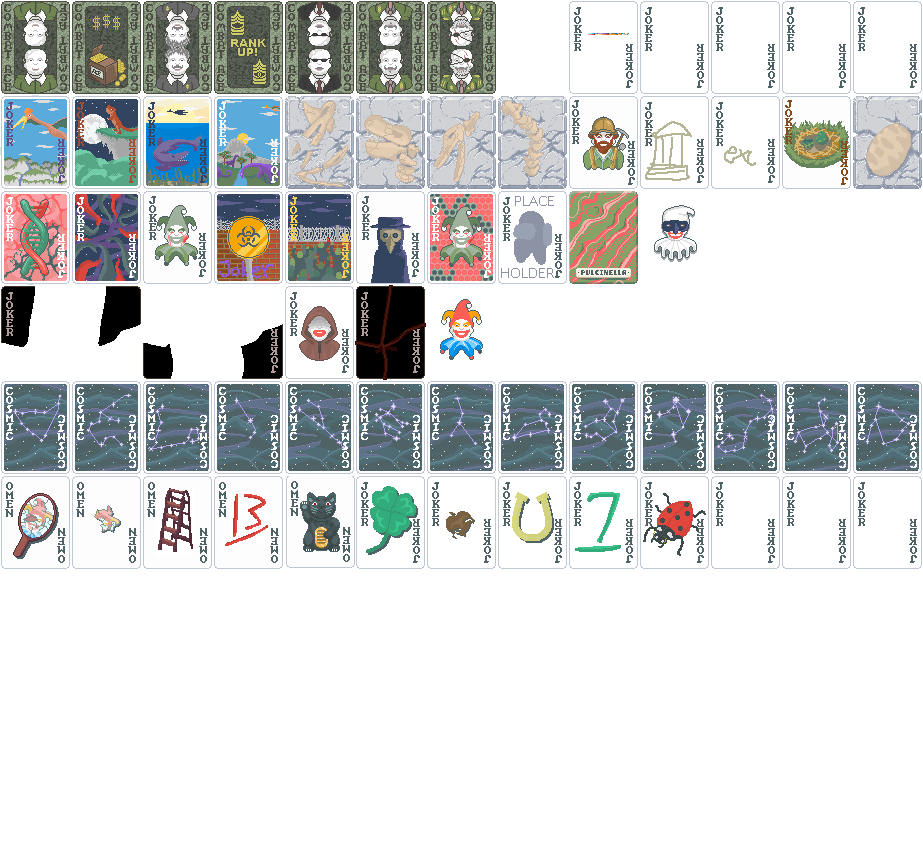
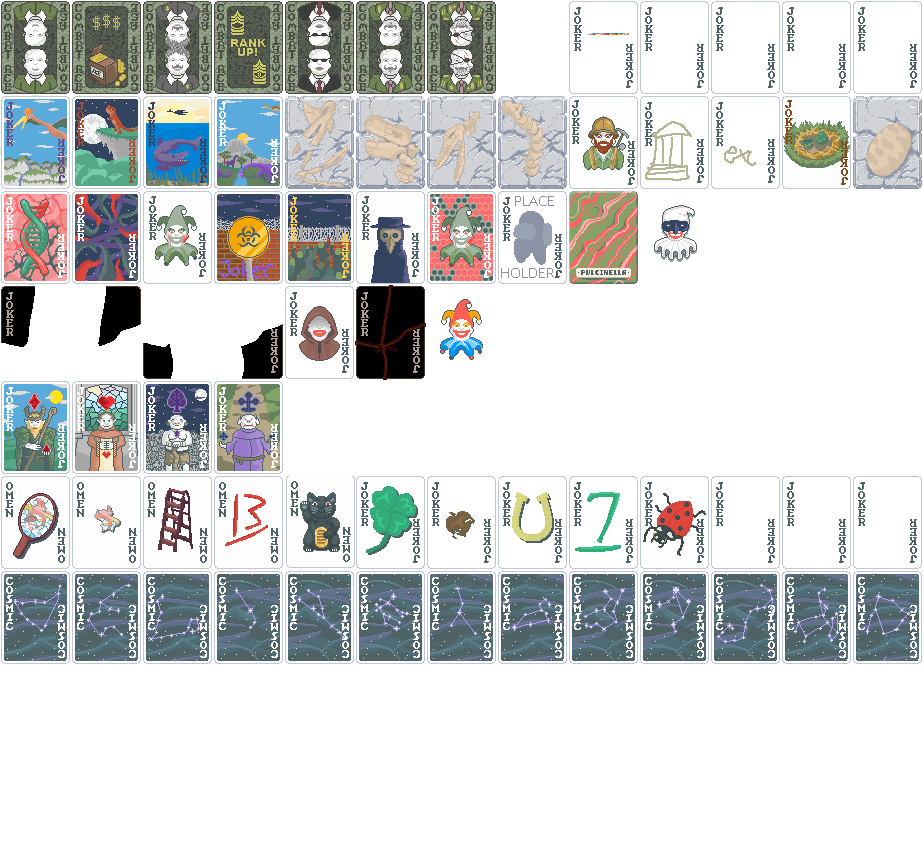
1.1.0  Sacred Suits Update

Changed region(s): [[0.0, 0.4257, 1.0, 0.5778], [0.0, 0.669, 1.0, 0.7906]]

diff --git a/README.md b/README.md
@@ -37,3 +37,8 @@ Use Dinosaurs to beat the blinds. Harness their power when they get extinct agai
 - 6 Jokers (5 Common, 1 Legendary)
 - 1 Tarot Card
 - 2 Vouchers
+
+### Sacred Suits *WIP
+The four sacred suits, each with their own guardian.
+Convert cards to your chosen suit with mystical powers.
+- 4 Jokers (4 Common)
